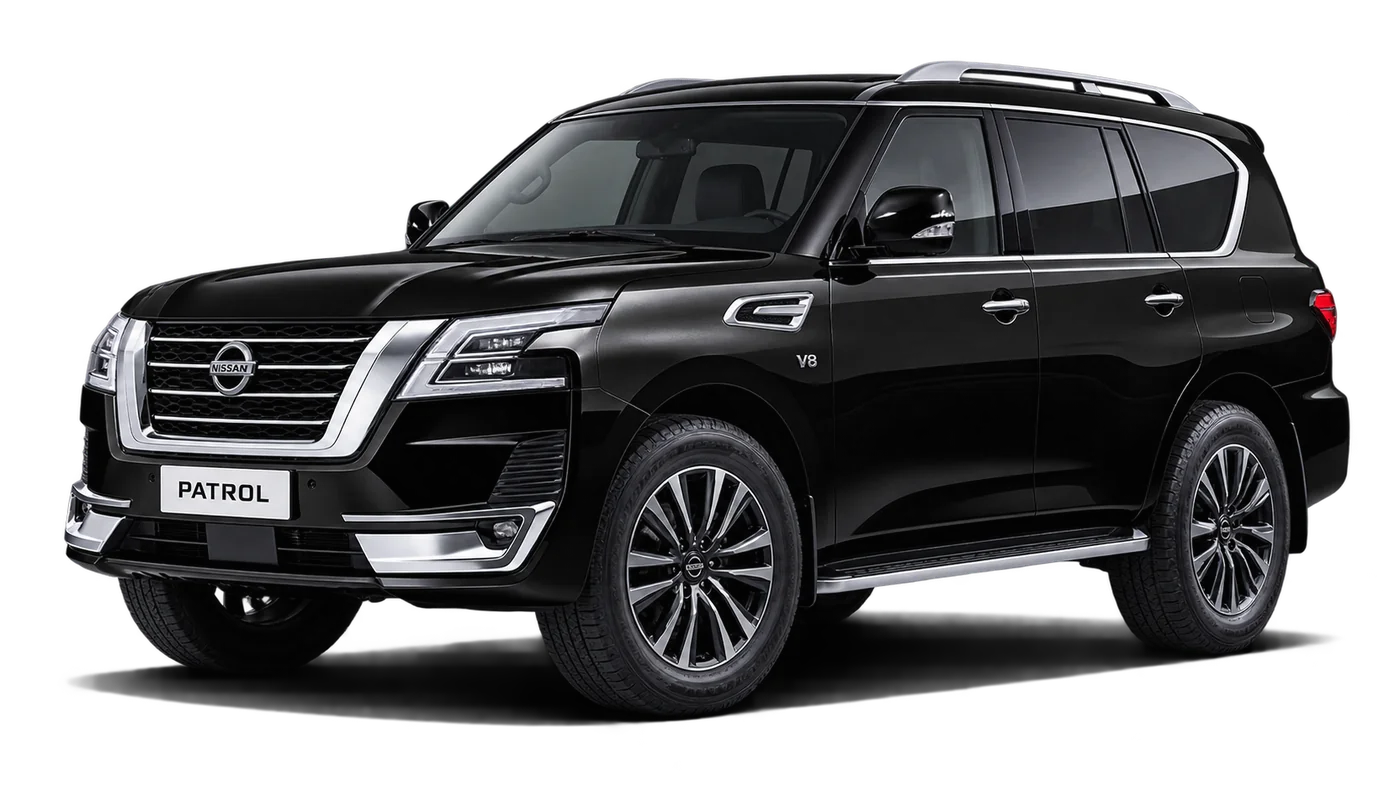
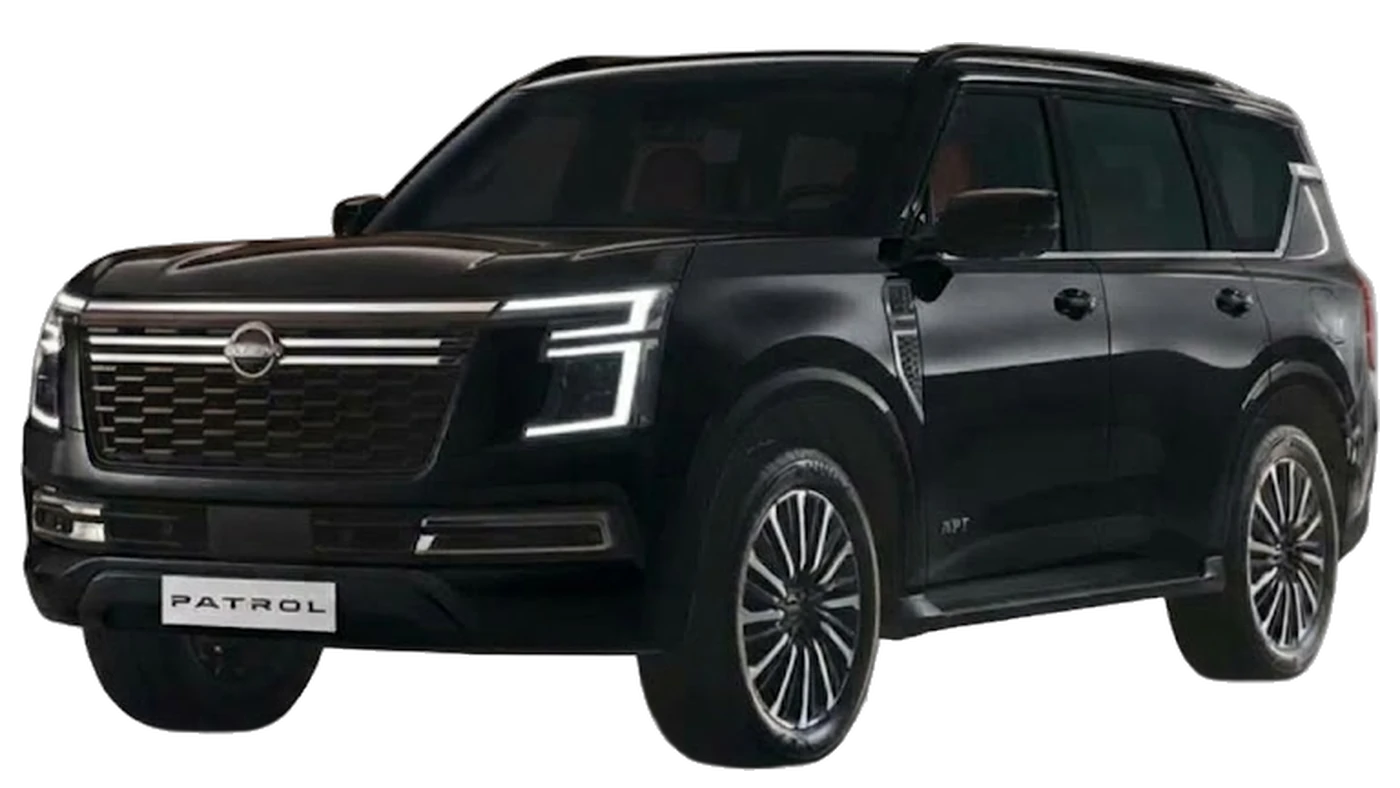
fix(frota): imagem do Nissan Patrol passa a ser o novo Y63 2026

diff --git a/src/data/fleetPresentation.ts b/src/data/fleetPresentation.ts
@@ -48,7 +48,7 @@ const FLEET_IMAGE_SCALES: Record<string, number> = {
   'hyundai-staria-atual': 1.14,
   'new-toyota-hiace': 1.11,
   'mercedes-sprinter-atual': 1.06,
-  'nissan-patrol': 1.03,
+  'nissan-patrol': 0.94,
   'new-toyota-prado': 1.17,
   'mercedes-brabus': 0.97,
   'mercedes-cls63': 1.11,
@@ -156,7 +156,7 @@ const FLEET_CAROUSEL_SCALES: Record<string, number> = {
   'mercedes-brabus': 0.83,
   'volvo-xc-60': 1.25,
   'new-toyota-prado': 1.06,
-  'nissan-patrol': 0.9,
+  'nissan-patrol': 0.89,
   'toyota-prado-atual': 1.17,
   'toyota-fortuner-2023': 0.98,
   'mercedes-benz-v300-class': 0.88,
